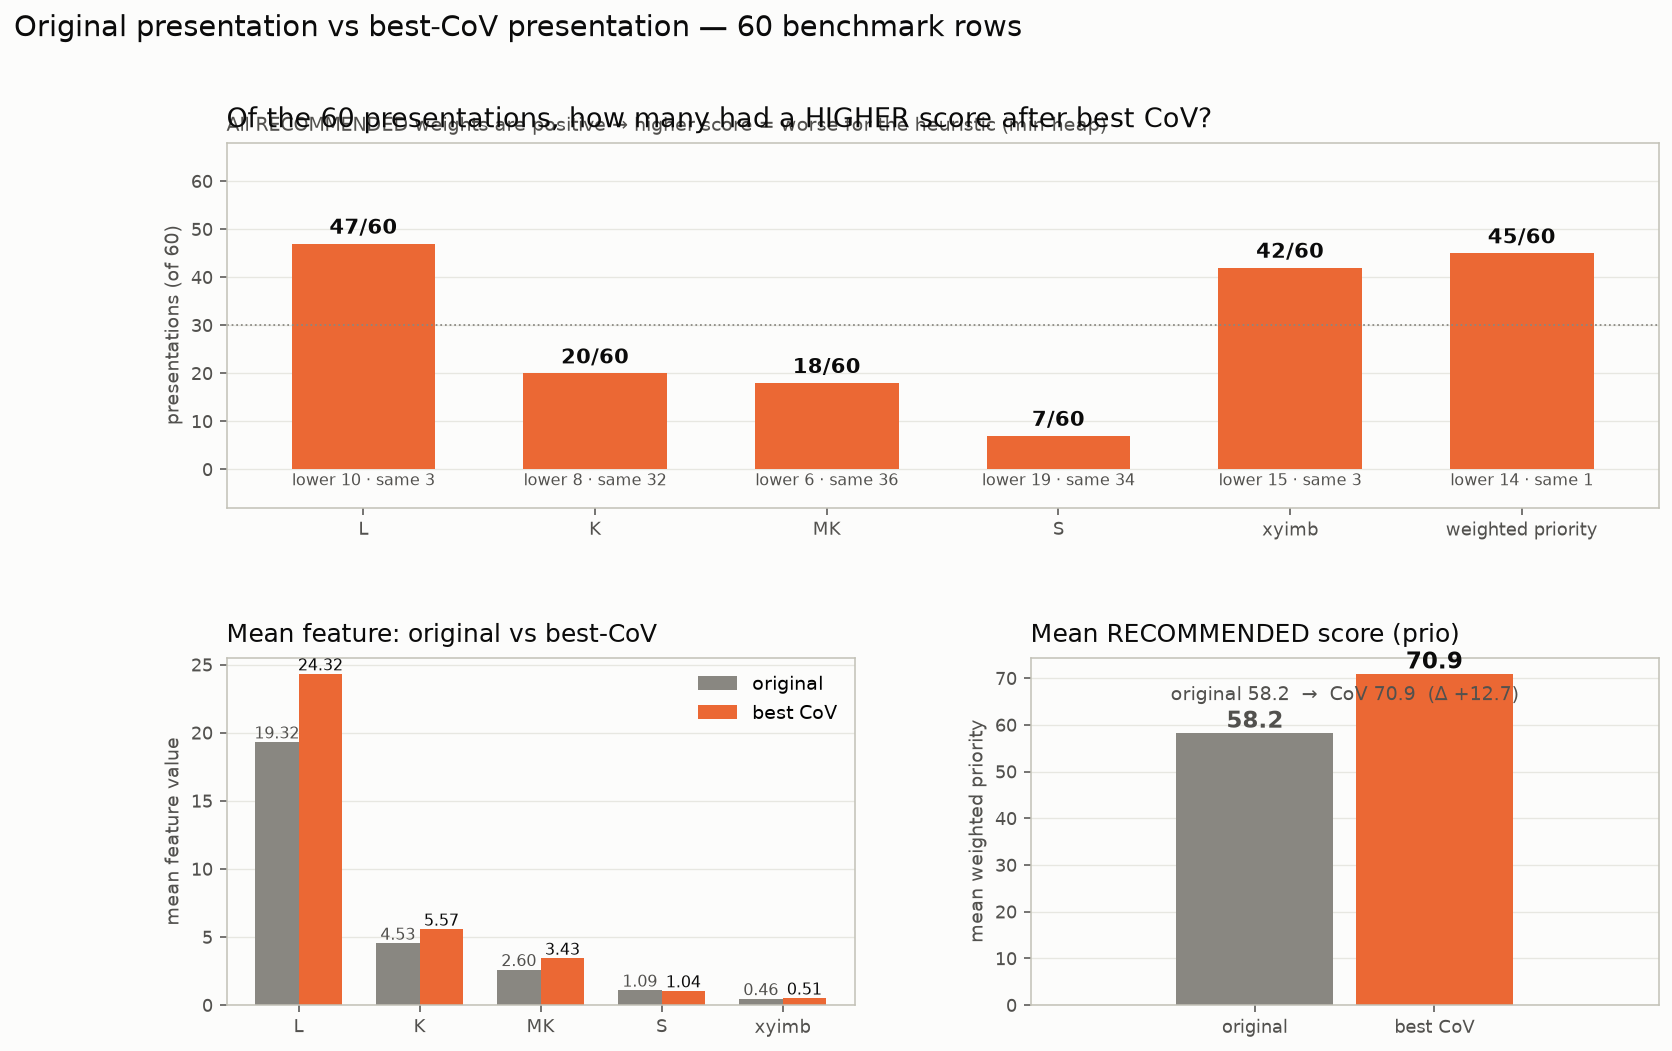
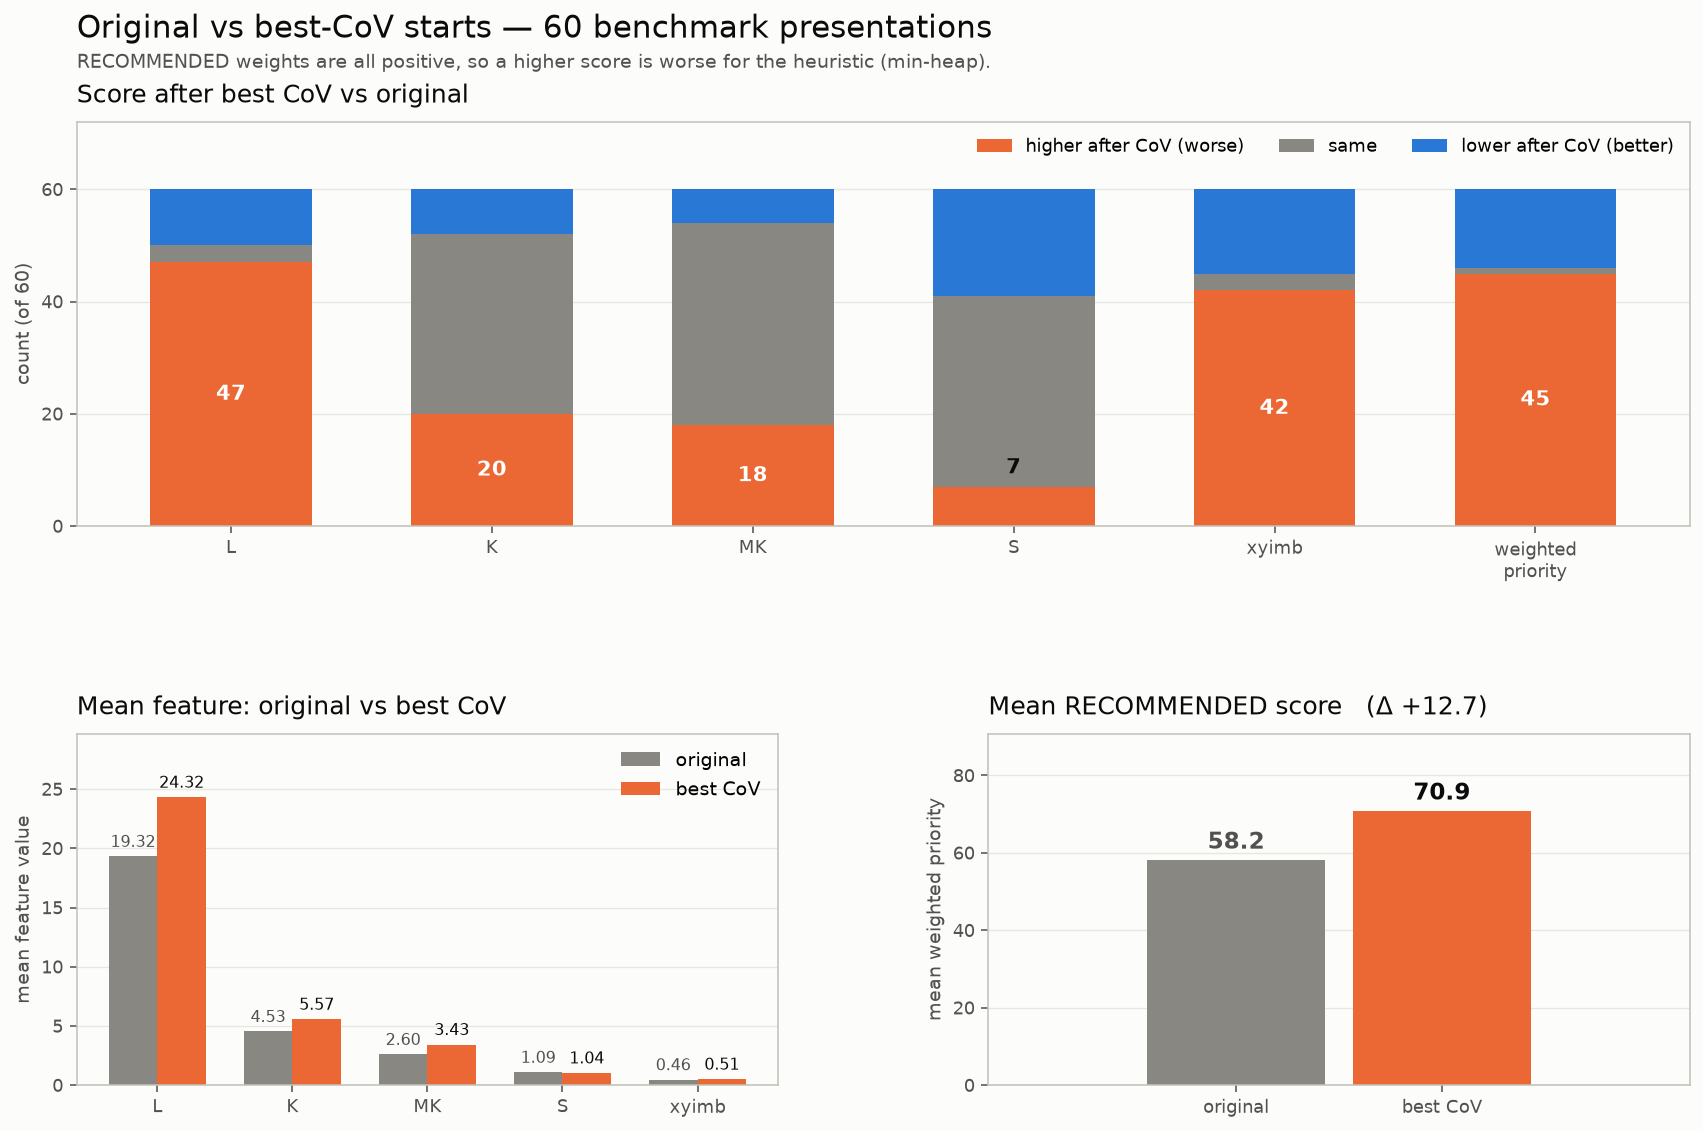
heur: clean up overlapping labels on CoV feature simple figure
Stacked higher/same/lower bars, fixed title spacing, no under-axis clutter.

diff --git a/experiments/heuristic_search/runners/cov_feature_delta.py b/experiments/heuristic_search/runners/cov_feature_delta.py
@@ -345,32 +345,43 @@ def fig_simple_higher_and_means(rows):
     mean_prio_orig = statistics.fmean(po)
     mean_prio_cov = statistics.fmean(pc)
 
-    fig = plt.figure(figsize=(13.2, 8.0), facecolor=SURFACE)
-    gs = fig.add_gridspec(2, 2, height_ratios=(1.05, 1.0), hspace=0.42, wspace=0.28)
+    fig = plt.figure(figsize=(12.8, 8.6), facecolor=SURFACE)
+    gs = fig.add_gridspec(
+        2, 2, height_ratios=(1.15, 1.0), hspace=0.55, wspace=0.30,
+        top=0.88, bottom=0.08, left=0.08, right=0.98)
     ax0 = fig.add_subplot(gs[0, :])
     ax1 = fig.add_subplot(gs[1, 0])
     ax2 = fig.add_subplot(gs[1, 1])
 
-    # --- top: how many higher after CoV ---
+    fig.suptitle(
+        "Original vs best-CoV starts — 60 benchmark presentations",
+        x=0.08, ha="left", fontsize=16, color=INK, y=0.97)
+    fig.text(
+        0.08, 0.925,
+        "RECOMMENDED weights are all positive, so a higher score is worse for the heuristic (min-heap).",
+        ha="left", color=SECONDARY, fontsize=10)
+
+    # --- top: stacked higher / same / lower ---
     x_all = np.arange(len(all_labels))
-    disp_all = [d if d != "prio" else "weighted priority" for d in all_labels]
-    ax0.bar(x_all, n_higher, color=WORSENED, width=0.62)
-    ax0.axhline(30, color=MUTED, linewidth=0.9, linestyle=":", zorder=1)
-    for i, (hi, lo, sm) in enumerate(zip(n_higher, n_lower, n_same)):
-        ax0.text(i, hi + 1.0, f"{hi}/60", ha="center", va="bottom",
-                 color=INK, fontsize=11, fontweight="bold")
-        ax0.text(i, -0.8, f"lower {lo} · same {sm}", ha="center", va="top",
-                 color=SECONDARY, fontsize=8)
-    ax0.set_ylim(-8, 68)
+    disp_all = [d if d != "prio" else "weighted\npriority" for d in all_labels]
+    hi = np.array(n_higher)
+    sm = np.array(n_same)
+    lo = np.array(n_lower)
+    ax0.bar(x_all, hi, color=WORSENED, width=0.62, label="higher after CoV (worse)")
+    ax0.bar(x_all, sm, bottom=hi, color=UNCHANGED, width=0.62, label="same")
+    ax0.bar(x_all, lo, bottom=hi + sm, color=IMPROVED, width=0.62,
+            label="lower after CoV (better)")
+    for i, h in enumerate(hi):
+        ax0.text(i, h / 2 if h >= 8 else h + 1.5, str(h),
+                 ha="center", va="center" if h >= 8 else "bottom",
+                 color="white" if h >= 8 else INK, fontsize=11, fontweight="bold")
+    ax0.set_ylim(0, 72)
+    ax0.set_yticks([0, 20, 40, 60])
     ax0.set_xticks(x_all, disp_all)
-    ax0.set_ylabel("presentations (of 60)", color=SECONDARY)
-    ax0.set_title(
-        "Of the 60 presentations, how many had a HIGHER score after best CoV?",
-        loc="left", fontsize=14, color=INK, pad=8)
-    ax0.text(
-        0.0, 1.02,
-        "All RECOMMENDED weights are positive → higher score = worse for the heuristic (min-heap)",
-        transform=ax0.transAxes, color=SECONDARY, fontsize=10, va="bottom")
+    ax0.set_ylabel("count (of 60)", color=SECONDARY)
+    ax0.set_title("Score after best CoV vs original",
+                  loc="left", fontsize=13, color=INK, pad=10)
+    ax0.legend(frameon=False, loc="upper right", ncol=3, fontsize=9)
     _style_axis(ax0)
     ax0.grid(False, axis="x")
 
@@ -379,48 +390,44 @@ def fig_simple_higher_and_means(rows):
     w = 0.36
     ax1.bar(x_f - w / 2, mean_orig_f, width=w, color=MUTED, label="original")
     ax1.bar(x_f + w / 2, mean_cov_f, width=w, color=WORSENED, label="best CoV")
+    ymax = max(max(mean_orig_f), max(mean_cov_f))
+    ax1.set_ylim(0, ymax * 1.22)
     for i, (mo, mc) in enumerate(zip(mean_orig_f, mean_cov_f)):
-        ax1.text(i - w / 2, mo, f"{mo:.2f}", ha="center", va="bottom",
-                 color=SECONDARY, fontsize=8)
-        ax1.text(i + w / 2, mc, f"{mc:.2f}", ha="center", va="bottom",
-                 color=INK, fontsize=8)
+        ax1.text(i - w / 2, mo + 0.02 * ymax, f"{mo:.2f}", ha="center",
+                 va="bottom", color=SECONDARY, fontsize=8)
+        ax1.text(i + w / 2, mc + 0.02 * ymax, f"{mc:.2f}", ha="center",
+                 va="bottom", color=INK, fontsize=8)
     ax1.set_xticks(x_f, feat_labels)
     ax1.set_ylabel("mean feature value", color=SECONDARY)
-    ax1.set_title("Mean feature: original vs best-CoV",
-                  loc="left", fontsize=13, color=INK, pad=8)
+    ax1.set_title("Mean feature: original vs best CoV",
+                  loc="left", fontsize=13, color=INK, pad=10)
     ax1.legend(frameon=False, loc="upper right")
     _style_axis(ax1)
     ax1.grid(False, axis="x")
 
     # --- bottom right: mean weighted priority alone ---
-    ax2.bar([-0.2], [mean_prio_orig], width=0.35, color=MUTED, label="original")
-    ax2.bar([0.2], [mean_prio_cov], width=0.35, color=WORSENED, label="best CoV")
-    ax2.text(-0.2, mean_prio_orig, f"{mean_prio_orig:.1f}", ha="center",
-             va="bottom", color=SECONDARY, fontsize=12, fontweight="bold")
-    ax2.text(0.2, mean_prio_cov, f"{mean_prio_cov:.1f}", ha="center",
-             va="bottom", color=INK, fontsize=12, fontweight="bold")
-    ax2.set_xticks([-0.2, 0.2], ["original", "best CoV"])
-    ax2.set_xlim(-0.7, 0.7)
+    ax2.bar([-0.22], [mean_prio_orig], width=0.38, color=MUTED, label="original")
+    ax2.bar([0.22], [mean_prio_cov], width=0.38, color=WORSENED, label="best CoV")
+    pmax = max(mean_prio_orig, mean_prio_cov)
+    ax2.set_ylim(0, pmax * 1.28)
+    ax2.text(-0.22, mean_prio_orig + 0.02 * pmax, f"{mean_prio_orig:.1f}",
+             ha="center", va="bottom", color=SECONDARY, fontsize=12,
+             fontweight="bold")
+    ax2.text(0.22, mean_prio_cov + 0.02 * pmax, f"{mean_prio_cov:.1f}",
+             ha="center", va="bottom", color=INK, fontsize=12, fontweight="bold")
+    ax2.set_xticks([-0.22, 0.22], ["original", "best CoV"])
+    ax2.set_xlim(-0.75, 0.75)
     ax2.set_ylabel("mean weighted priority", color=SECONDARY)
-    ax2.set_title("Mean RECOMMENDED score (prio)",
-                  loc="left", fontsize=13, color=INK, pad=8)
-    ax2.text(
-        0.5, 0.92,
-        f"original {mean_prio_orig:.1f}  →  CoV {mean_prio_cov:.1f}"
-        f"  (Δ {mean_prio_cov - mean_prio_orig:+.1f})",
-        transform=ax2.transAxes, ha="center", va="top",
-        color=SECONDARY, fontsize=10)
+    ax2.set_title(
+        f"Mean RECOMMENDED score   (Δ {mean_prio_cov - mean_prio_orig:+.1f})",
+        loc="left", fontsize=13, color=INK, pad=10)
     _style_axis(ax2)
     ax2.grid(False, axis="x")
 
-    fig.suptitle(
-        "Original presentation vs best-CoV presentation — 60 benchmark rows",
-        x=0.01, ha="left", fontsize=15, color=INK, y=0.995)
     path = os.path.join(FIG_DIR, "cov_feature_simple.png")
     fig.savefig(path, dpi=140, bbox_inches="tight", facecolor=SURFACE)
     plt.close(fig)
     print(f"wrote {path}")
-    # Replace the old confusing outcome graph with this simple one
     path2 = os.path.join(FIG_DIR, "cov_delta_by_outcome.png")
     shutil.copyfile(path, path2)
     print(f"wrote {path2} (same simple figure)")
